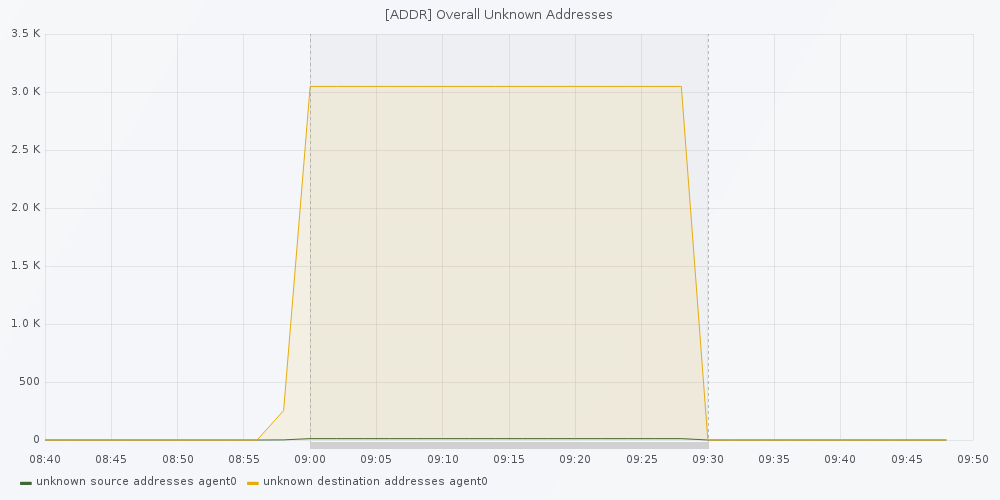
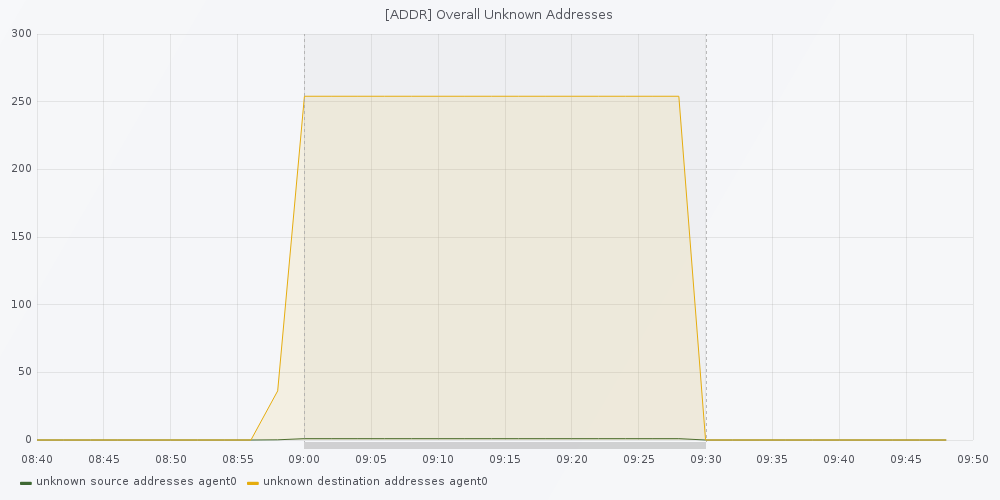
described dos attack

diff --git a/tex/chapter/700-results.tex b/tex/chapter/700-results.tex
@@ -53,7 +53,7 @@ The absence of unknown addresses, either as source or as destination, is also cl
 
 Surprisingly, there is also no significant increase in the number of detected outliers neither by the \gls{svm}, nor using the \gls{lof}, as shown in Figure~\ref{fig:results:unusual:outlier}.
 Even though the \gls{lof} shows an average of $0.77$ outliers, it can hardly be considered an significant increase when compared to the surrounding unmodified data and to the validation data set in Appendix~\ref{app:metrics:validation}.
-However, the spread of the Local Outlier Factor depicted in Figure~\ref{fig:results:unusual:lof} shows a small change downwards, which indicates less normal behaviour -- it is arguably not significant enough.
+However, the spread of the \gls{lof} depicted in Figure~\ref{fig:results:unusual:lof} shows a small change downwards, which indicates less normal behaviour -- it is arguably not significant enough.
 
 In contrast, Figure~\ref{fig:results:unusual:svm} even shows that the distance to the decision function of the \gls{svm} even increases positively, which means the analysed points are considered to represent the normality stronger. This is also reflected in the detection of no outliers with the exception of two small peaks.
 
@@ -128,6 +128,14 @@ The Entropy Analyser mostly calculates a entropy of infinity, which is here enco
 \subsection{Detection of a DoS Attack}
 \label{sec:results:results:dos}
 
+The second modification applied to the test dataset, included a \gls{dos} attack, which flooded the entire line \code{3.4} with \code{A\_Restart} telegrams. As to expect the amount of telegrams with unknown addresses and count of unknown addresses jump right up, as shown in Figure~\ref{fig:results:dos:tc} and~\ref{fig:results:dos:addr}. This clearly indicates an anomaly, since the threshold for unknown addresses within the network should be set to zero.
+
+Figure~\ref{fig:results:dos:outlier} illustrates, that the \gls{lof} and \gls{svm} outlier detection reacted equally prompt, by both classifying the entire period of the attack as outlier.
+This is also reflected by the underlying metrics. The maximum of the \gls{lof} in Figure~\ref{fig:results:dos:lof} stays low during the entire attack. Similarly, the distance to the decision surface of the \gls{svm} resides in the high negatives implying a huge divergence from the normality.
+Especially noteworthy is that the spread between minimum and maximum of the Local Outlier Factor as well as the distance to the decision surface falls close to zero during the attack, which indicates a high certainty of the classification.
+
+The entropy, plotted in Figure~\ref{fig:results:dos:entropy}, does not change at all, neither during the modification nor outside of it.
+
 \begin{figure}[H]
 	\newcommand{\figwith}{0.49\textwidth}
 	\newcommand{\figprefix}{dos}
@@ -185,10 +193,10 @@ The Entropy Analyser mostly calculates a entropy of infinity, which is here enco
 		\toprule
 		& \gls{lof} & \gls{svm} & Address & Entropy \\\midrule
 		1. Attack detected & yes & yes & yes & no \\\midrule
-		2.a) Avg. difference in outliers  & n/a & n/a & n/a & n/a \\\midrule
-		2.b) Avg. difference in metric & n/a & n/a & n/a & n/a \\\midrule
-		3. Response time & n/a & n/a & n/a & n/a \\\midrule
-		4. Persistence & n/a & n/a & n/a & n/a \\\bottomrule
+		2.a) Avg. difference in outliers  & $0.549$ & $0.997$ & $254$ & n/a \\\midrule
+		2.b) Avg. difference in metric & $-1.730$ & $-39.46$ & n/a & n/a \\\midrule
+		3. Response time & 0s & 0s & 0s & n/a \\\midrule
+		4. Persistence & 100\% & 100\% & 100\% & n/a \\\bottomrule
 	\end{tabularx}
 	\caption[Detection results of the DoS attack]{Detection results of the \gls{dos} attack.}
 	\label{tab:results:dos}

diff --git a/tex/chapter/400-methods.tex b/tex/chapter/400-methods.tex
@@ -64,6 +64,8 @@ Passive eavesdropping is not considered as it can not be detected on higher prot
 \section{Generating a Test Data Set including malicious activities}
 \label{sec:methods:gen-test}
 
+\todo{fix times, that got mangled up due to fucking time zone issues!}
+
 As \gls{bas} automation systems are seldom considered within threat models only in rare cases, if at all, monitoring systems are installed.
 Consequently no empirical data of attacks against \gls{bas} exists, simply because they would not be recognised as such.
 All of this leads to missing knowledge of what kind of attacks an intruder would perform in such network.
